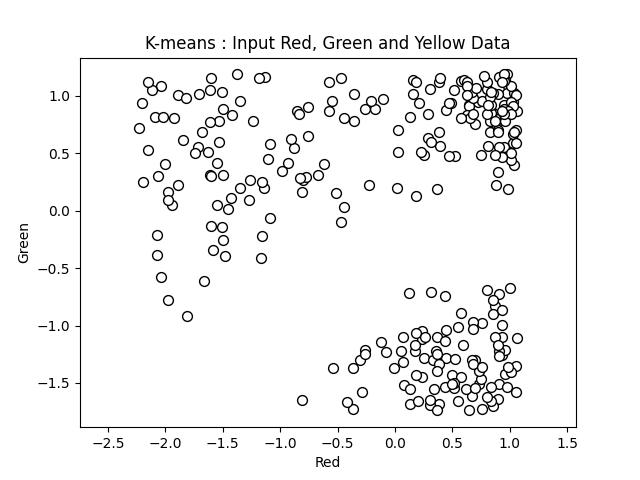
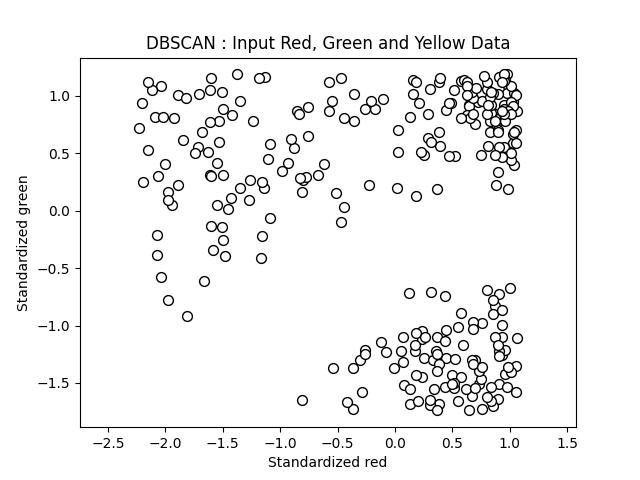
Add files via upload

Changed region(s): [[0.4062, 0.9375, 0.625, 1.0], [0.0312, 0.375, 0.0625, 0.6562], [0.2188, 0.0625, 0.3438, 0.125]]

diff --git a/src/mlcolor_dbscan/mlcolor_dbscan.py b/src/mlcolor_dbscan/mlcolor_dbscan.py
@@ -27,9 +27,9 @@ ys = np.array([row[1] for row in rgbs_scaled])
 
 plt.scatter(xs, ys, c = 'white', marker = 'o', edgecolor = 'black',  s = 50)
 plt.axis('equal')
-plt.title("K-means : Input Red, Green and Yellow Data")
-plt.xlabel("Red")
-plt.ylabel("Green")
+plt.title("DBSCAN : Input Red, Green and Yellow Data")
+plt.xlabel("Standardized red")
+plt.ylabel("Standardized green")
 plt.savefig("mlcolor_dbscan_xys.jpg")
 
 plt.clf()
@@ -65,8 +65,8 @@ plt.scatter(xs[bn], ys[bn], s = 40, c = 'gainsboro', marker = 'o',
 plt.legend(scatterpoints=1)
 plt.grid()
 plt.title("DBSCAN : red, green, yellow")
-plt.xlabel("Red")
-plt.ylabel("Green")
+plt.xlabel("Standardized red")
+plt.ylabel("Standardized green")
 plt.axis('equal')
 plt.savefig("mlcolor_dbscan_clustered.jpg")
 
